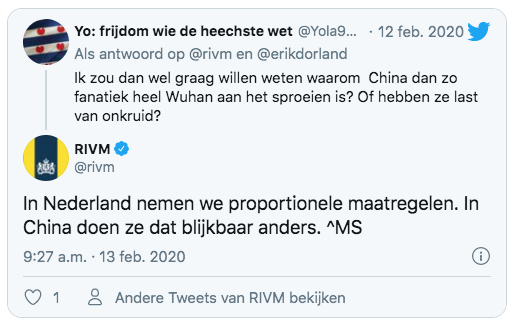
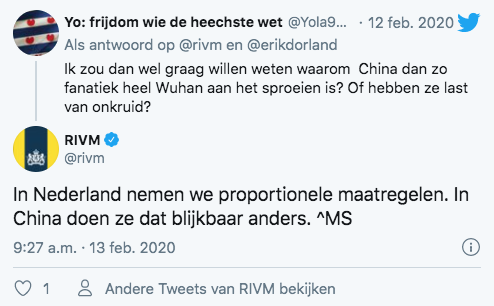
update images

diff --git a/src/data/stories.js b/src/data/stories.js
@@ -45,7 +45,7 @@ const stories = [
                         </p>
                         <p>
                             <div class="frame">
-                                <img height="329" src="assets/img/stories/netherlands/rivm-februari.png">
+                                <img height="306" src="assets/img/stories/netherlands/rivm-februari.jpg">
                             </div>
                         </p>
                         <p>
@@ -96,7 +96,7 @@ const stories = [
                         </p>
                         <p>
                             <div class="frame">
-                                <img height="329" src="assets/img/stories/netherlands/bruno-bruins.png">
+                                <img height="343" src="assets/img/stories/netherlands/bruno-bruins.jpg">
                                 Toenmalig minister Bruno Bruins
                             </div>
                         </p>
@@ -129,7 +129,7 @@ const stories = [
                         </p>
                         <p>
                             <div class="frame">
-                                <img height="329" src="assets/img/stories/netherlands/bergamo-army.png">
+                                <img height="287" src="assets/img/stories/netherlands/bergamo-army.jpg">
                                 Het leger wordt ingezet om alle lijkkisten te kunnen verwerken.<br>
                                 Bron: straitstimes.com
                             </div>
@@ -145,7 +145,7 @@ const stories = [
                         </p>
                         <p>
                             <div class="frame">    
-                                <img height="329" src="assets/img/stories/netherlands/rutte-shaking-hands.png">
+                                <img height="370" src="assets/img/stories/netherlands/rutte-shaking-hands.jpg">
                             </div>
                         </p>
                         `,
@@ -192,7 +192,7 @@ const stories = [
                         </p>
                         <p>
                             <div class="frame">
-                                <img height="329" src="assets/img/stories/netherlands/rutte-herd-immunity.png">
+                                <img height="325" src="assets/img/stories/netherlands/rutte-herd-immunity.jpg">
                             </div>
                         </p>
                         <p>
@@ -240,7 +240,7 @@ const stories = [
                         </p>
                         <p>
                             <div class="frame">
-                                <img height="329" src="assets/img/stories/netherlands/intelligent-lockdown.png">
+                                <img height="338" src="assets/img/stories/netherlands/intelligent-lockdown.jpg">
                                 Lege snelwegen. De Nederlanders blijven massaal thuis.<br>
                                 Bron: Parool
                             </div>
@@ -288,7 +288,7 @@ const stories = [
                         </p>
                         <p>
                             <div class="frame">
-                                <img height="300" src="assets/img/stories/netherlands/ann-vossen-herd-immunity.png">
+                                <img height="303" src="assets/img/stories/netherlands/ann-vossen-herd-immunity.jpg">
                                 Bekijk hier het <a href="https://twitter.com/jaapstronks/status/1253050826496577537" target="_blank">videofragment</a>
                             </div>
                         </p>
@@ -327,7 +327,7 @@ const stories = [
                         </p>
                         <p>
                             <div class="frame">
-                                <img height="406" src="assets/img/stories/netherlands/hugo-de-jonge-vakantie.png">
+                                <img height="368" src="assets/img/stories/netherlands/hugo-de-jonge-vakantie.jpg">
                                 Bron: <a href="https://twitter.com/hugodejonge/status/1284109468368875521" target="_blank">
                                 @hugodejonge</a>
                             </div>
@@ -379,7 +379,7 @@ const stories = [
                         </p>
                         <p>
                             <div class="frame">
-                                <img width="450" src="assets/img/stories/netherlands/schiphol-zomer.png">
+                                <img width="356" src="assets/img/stories/netherlands/schiphol-zomer.jpg">
                                 Bron: PZC
                             </div>
                         </p>
@@ -466,7 +466,7 @@ const stories = [
                         </p>
                         <p>
                             <div class="frame">
-                                <img height="400" src="assets/img/stories/netherlands/grapperhaus-wedding.png">
+                                <img height="406" src="assets/img/stories/netherlands/grapperhaus-wedding.jpg">
                                 Telegraaf van 28 augustus
                             </div>
                         </p>
@@ -499,7 +499,7 @@ const stories = [
                         </p>
                         <p>
                             <div class="frame">
-                                <img height="300" src="assets/img/stories/netherlands/perleeftijdsgroepperweek.gif">
+                                <img height="405" src="assets/img/stories/netherlands/perleeftijdsgroepperweek.gif">
                                 Credits animatie: @jannotr
                             </div>
                         </p>
@@ -522,7 +522,7 @@ const stories = [
                         </p>
                         <p>
                             <div class="frame">
-                                <img height="300" src="assets/img/stories/netherlands/marc-bonten-shielding.png">
+                                <img height="351" src="assets/img/stories/netherlands/marc-bonten-shielding.jpg">
                             </div>
                         </p>
                     `,
@@ -559,7 +559,7 @@ const stories = [
                         </p>
                         <p>
                             <div class="frame">
-                                <img height="500" src="assets/img/stories/netherlands/follow-the-money.png">
+                                <img height="400" src="assets/img/stories/netherlands/follow-the-money.jpg">
                                 Lees het <a href="https://www.ftm.nl/artikelen/coronatesten-belangen-arts-microbiologen" "target=_blank">
                                 artikel</a>
                             </div>
@@ -606,7 +606,7 @@ const stories = [
                         </p>
                         <p>
                             <div class="frame">
-                                <img height="300" src="assets/img/stories/netherlands/willem-ii.png">
+                                <img height="278" src="assets/img/stories/netherlands/willem-ii.jpg">
                                 Opeengepakte Willem II supporters. Bron: ANP
                             </div>
                         </p>
@@ -652,7 +652,7 @@ const stories = [
                         </p>
                         <p>
                             <div class="frame">
-                                <img height="240" src="assets/img/stories/netherlands/ic-capacity.png">
+                                <img height="405" src="assets/img/stories/netherlands/ic-capacity.png">
                                 Bron: @yorickB
                             </div>
                         </p>
@@ -705,7 +705,7 @@ const stories = [
                        </p>
                        <p>
                             <div class="frame">
-                                <img height="240" src="assets/img/stories/netherlands/rutte-torentje.png">
+                                <img height="343" src="assets/img/stories/netherlands/rutte-torentje.jpg">
                                 Bron: ANP
                             </div>
                        </p>

diff --git a/src/components/story/story.vue b/src/components/story/story.vue
@@ -179,7 +179,7 @@
                         :chapter="chapter"/>
                 </div>
                 <div class="story__outro">
-                    Ofschoon met zorg samengesteld, kan deze reconstructie feitelijke
+                    Hoewel met zorg samengesteld, kan deze reconstructie feitelijke
                     onjuistheden bevatten. Ook hebben we geprobeerd om beeldrechten
                     te respecteren, met de juiste credits.<br>
                     Neem contact op met <a href="mailto:info@innouveau.nl">info@innouveau.nl</a>

diff --git a/src/components/story/story-chapter.vue b/src/components/story/story-chapter.vue
@@ -106,7 +106,7 @@
         .story-chapter__content {
             font-size: 16px;
             line-height: 1.6;
-
+            //background: pink;
             p {
 
                 &:first-child {
